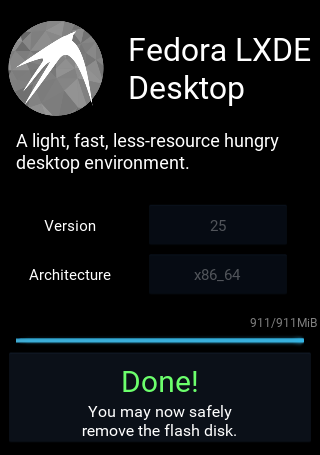
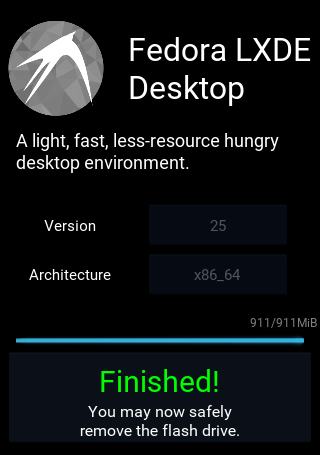
Wording and other improvements

Changed region(s): [[0.25, 0.9231, 0.75, 0.9846], [0.3125, 0.8, 0.6875, 0.8615]]

diff --git a/chapters/4-raspi-solution.tex b/chapters/4-raspi-solution.tex
@@ -42,12 +42,12 @@
             
             A progress bar shows how far along the write is.
             
-            After the write is complete, the screen shows ``Done!", pulsating in green to grab attention.  It also tells the user they may now safely remove the flash drive.  A single tap at this point will bring the Fedorator back to the standby screen.
+            After the write is complete, the screen shows ``Finished!", pulsating in green to grab attention.  It also tells the user they may now safely remove the flash drive.  A single tap at this point will bring the Fedorator back to the standby screen.
             
             \screenshotfigure{fedorator-screenshot-done.png}
-                {Fedorator: Fedora LXDE Destkop was sucessfully written to the flash drive} % \todo{Replace the screenshot with one that says "drive" if there's time.}}
+                {Fedorator: Fedora LXDE Destkop was sucessfully written to the flash drive}
             
-            If at any point the flash drive is removed, the software goes back to the standby screen.
+            The device returns to standby mode after a tap or after 30 seconds.  If at any point before the write finishes the flash drive is removed, the software goes back to the standby screen immediately.
             
             %\todo{more words?}
         \section{Technical Implementation}
@@ -142,8 +142,8 @@
         
         Overall, creating the device was a success, although there is still work to be done.  I'm not satisfied with the components used for the prototype, in particular, the proprietary screen.  I would like to be able to recommend a standard screen, so I will be searching for alternatives.
         
-        Another sore point is the lack of fixation for the components.  During regular usage, the screen may wiggle a small amount or be at a slightly off angle.  The next iteration on this design will include screws, fasteing bolts, or a similar ``tried and tested" solution.
+        Another issue is the lack of fixation for the components.  During regular usage, the screen may wiggle a small amount or be at a slightly off angle.  The next iteration on this design will include screws, fasteing bolts, or a similar ``tried and tested" solution.
         
-        The software works well and can be improved easily.  Continued development may bring features such as the addition of secondary data partitions to the resulting flash drives.
+        Testing has shown the current version of the software works according to the specifications.  It is built with provisions for future improvements.  Continued development may bring features such as the addition of secondary data partitions to the resulting flash drives.
         
         %\todo{I still haven't done the speed measuring thing...}

diff --git a/chapters/9-conclusion.tex b/chapters/9-conclusion.tex
@@ -14,7 +14,7 @@
         
         I have first specified how this device would behave and what parameters should its look fulfill.  Next, I researched the options for the device's components—the hardware as well as the case.  I analyzed these options with regard to cost, ease of assembly, extensibility, and long term maintainability.  Based on this analysis, I created three distinct concepts.  Due to positive feedback, I went ahead and attempted to construct two of them.
         
-        I turned a concept of a Fedorator driven by a Raspberry Pi into a reality.  I decided on the components, wrote the software and designed a case.  Then I proved the reasonableness of the solution by building a functional prototype.  Constructing the prototype has allowed me to determine which things to improve on in the next iteration.
+        I turned a concept of a Fedorator driven by a Raspberry Pi into a reality.  I decided on the components, wrote the software and designed a case.  Then I showed the solution to be reasonable by building a functional prototype.  Constructing the prototype has allowed me to determine which things to improve on in the next iteration.
         
         I also strived to design and build a smaller variant on the Fedorator device.  I have done the research and performed some trials, but failed to secure a solution that would not require a large time investment.%  \todo{Yeah?}
         \todo {could be a master's thesis topic}
@@ -24,5 +24,6 @@
         %\todo{How can we build on top of what I've made}
         The Fedorator project has a future at the hands of me and other enthusiasts.  Already the prototype that was built is ready to be showcased at local events and feedback will be garnered.  There are a few noted enhancements that can be made.
         
-        
+        \todo{Thanks to being open-source and GitHub...}
+        \todo{"the prototype that I built is ready to be showcased at local events"}
         

diff --git a/chapters/1-research.tex b/chapters/1-research.tex
@@ -80,7 +80,7 @@
                 \imagefigurelarge{fedora-media-writer-screenshot.png}
                     {Fedora Media Writer running on Linux  \cite{fedora-media-writer}}
                 
-                \textbf{Fedora Media Writer} is a desktop application developed by Jiří Eischmann and Martin Bříza.  It covering the entire process from picking a Fedora release and downloading it, to copying to an USB flash drive.  It was overhauled in 2016 to provide a new user friendly interface \cite{fedora-luc-as-primary-downloadable}.
+                \textbf{Fedora Media Writer} is a desktop application developed by Martin Bříza and Jiří Eischmann.  It covering the entire process from picking a Fedora release and downloading it, to copying to an USB flash drive.  It was overhauled in 2016 to provide a new user friendly interface \cite{fedora-luc-as-primary-downloadable}.
                 
                 Fedora Media Writer is written in C++ using the Qt framework and supports Linux, Windows, and macOS \cite{fedora-media-writer}.  It's a solid and well tested application, however, clearly suited for desktop usage rather than embedded.  I have decided to create software for the Fedorator from scratch rather than attempt to add a new user interface to Fedora Media Writer.  However, the user interface of Fedora Media Writer did prove an inspiration.
                 

diff --git a/acknowledgements.tex b/acknowledgements.tex
@@ -2,6 +2,8 @@ A sincere thank you to my supervisor Miroslav Hrončok for his ideas, advice, an
 
 Thank you to Petr Viktorin for his ethusiasm and pieces of hardware.  Sorry I didn't reach out more!
 
+Thank you, Sentri, for proofreeding as well as keeping me virtual company during the final stretch.
+
 Thanks to Jiří for support and thoughts.
 
 Thank you to the communities surrounding open hardware for their worthwhile endeavor and always being willing to help.

diff --git a/glossary.tex b/glossary.tex
@@ -25,7 +25,7 @@
 \newacronym{LCD}{LCD}{Liquid-Crystal-Display}
 \newacronym{LED}{LED}{Light-Emitting Diode}
 \newacronym{MIDI}{MIDI}{Musical Instrument Digital Interface}
-\newacronym{MSC}{MSC}{Mass device Class}
+\newacronym{MSC}{MSC}{Mass Device Class}
 \newacronym{OLED}{OLED}{Organic Light-Emitting Diode}
 \newacronym{PDF}{PDF}{Portable Document Format}
 \newacronym{PLA}{PLA}{Poly(Lactic Acid)}

diff --git a/main.tex b/main.tex
@@ -22,7 +22,9 @@
 
 % from https://www.herout.net/blog/2017/03/pomalu-uz-pojdme-psat/
 \usepackage{xcolor} 
-\newcommand{\todo}[1]{\textcolor{red}{\textbf{[[#1]]}}}
+\newcommand{\todo}[1]{
+    %\textcolor{red}{\textbf{[[#1]]}}
+}
 
 \usepackage{blindtext}
 \newcommand{\blind}[1][1]{
